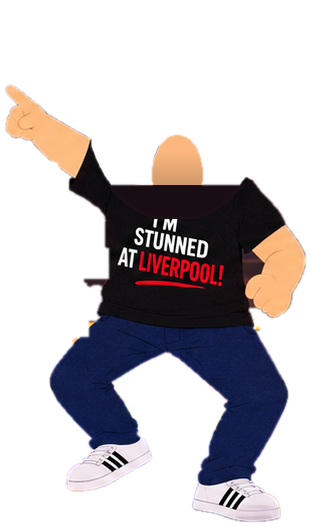
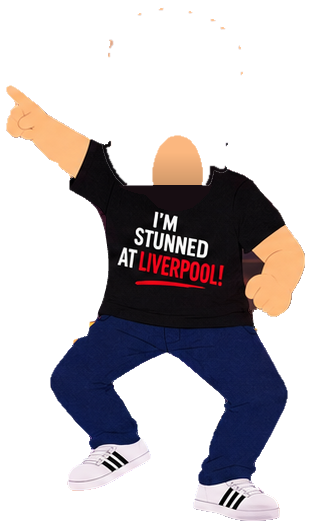
Remaster the character cut-outs and arm rig
Rig (render.py)
- Skinned arms: each arm bends smoothly from where it leaves the body to
  the forearm instead of rotating as a rigid cut-out, so there is no cut
  line across sleeves and no detached joints
- Arm pieces take only the arm itself: skin/hand/glass for arms in front
  of the body (pivoting at the elbow or sleeve hem), the whole sleeve for
  Gary's raised arms (rig.json 'mode')
- Body behind a moved arm is inpainted from shirt pixels only (no flat
  patch, no pale smear); fill never recreates a raised arm or fist shadow
- Outline/rim recomputed from the outer body+head silhouette every frame
  (no ghost outlines, no rim lines inside the body or round the neck)
- Sprites padded so swinging hands are never clipped; swing capped
- tools/rig_qa.py: each drawing with arms down / neutral / raised

Cut-outs (build_assets.py)
- Smooth the staircase mask edges along the outline (trousers, torsos),
  keeping hands/faces/shoes/text exact; drop hairline slivers
- Auto-remove maroon/studio-blue chair scraps on the outer edge; fill
  hairline cracks between head and body
- Head piece keeps head/hair/beard only: dark shirt under the head oval
  goes back to the body (clothing no longer swings with the head);
  Carra's and Keane's chin/beard tails take beard only, never shirt

Claude-Session: https://claude.ai/code/session_01Dp2R7D8dpgJrJKu2Z7FzDb

diff --git a/render/render.py b/render/render.py
@@ -39,6 +39,11 @@ def rgba(path):
     im[..., :3] *= im[..., 3:4] / 255.0
     return im
 SPR = {n: dict(body=rgba(f'{A}/{n}_body.png'), head=rgba(f'{A}/{n}_head.png'), **meta[n]) for n in meta}
+SPR_PAD = 110  # room around each drawing so a swinging arm is never clipped at the sprite edge
+for sp_ in SPR.values():
+    for k_ in ('body', 'head'): sp_[k_] = np.pad(sp_[k_], ((SPR_PAD, SPR_PAD), (SPR_PAD, SPR_PAD), (0, 0)))
+    sp_['x0'] -= SPR_PAD; sp_['y0'] -= SPR_PAD
+    for k_ in ('neck', 'foot', 'headc'): sp_[k_] = [sp_[k_][0] + SPR_PAD, sp_[k_][1] + SPR_PAD]
 HAND = {'carra1': (895, 752), 'carra2': (690, 300), 'nev1': (1030, 600), 'nev2': (1455, 380), 'keane1': (1405, 630), 'keane2': (790, 525), 'carra5': (720, 645), 'keane5': (722, 522), 'nev5': (1050, 570), 'carra4': (385, 473), 'keane4': (923, 517), 'nev4': (1224, 456)}
 for n, s in SPR.items():
     hx, hy = HAND[n]; s['hand'] = (hx - s['x0'], hy - s['y0'])
@@ -60,55 +65,128 @@ def _ol_rim(img):
     edge = cv2.GaussianBlur(edge, (0, 0), 1.0) * (a / 255)
     r = np.zeros_like(img); r[..., 0] = r[..., 1] = r[..., 2] = edge; r[..., 3] = edge
     return o, r
+def _ol_rim_body(img, head_a):
+    """Outline + rim light for a body layer, from the outer silhouette of body+head (closed), so the neck opening
+    and internal seams never get a rim line."""
+    a = np.maximum(img[..., 3], head_a)
+    a = cv2.morphologyEx((a > 110).astype(np.uint8), cv2.MORPH_CLOSE, cv2.getStructuringElement(cv2.MORPH_ELLIPSE, (7, 7))).astype(np.float32) * 255
+    a = np.minimum(a, cv2.GaussianBlur(np.maximum(img[..., 3], head_a), (0, 0), 0.7) + 60)
+    tmp = np.zeros_like(img); tmp[..., 3] = a
+    ol, rim = _ol_rim(tmp)
+    return ol, rim * (img[..., 3:4] / 255)
 for n_, sp_ in SPR.items():
-    sp_['body_ol'], sp_['body_rim'] = _ol_rim(sp_['body']); sp_['head_ol'], sp_['head_rim'] = _ol_rim(sp_['head'])
+    sp_['head_a'] = sp_['head'][..., 3].copy()
+    sp_['body_ol'], sp_['body_rim'] = _ol_rim_body(sp_['body'], sp_['head_a']); sp_['head_ol'], sp_['head_rim'] = _ol_rim(sp_['head'])
 # ---- arm rig: cut each drawing's arms out so they can rotate at the shoulder (masks/rig.json) -------------
 RIG = json.load(open(MASKS + '/rig.json'))
+def _smooth01(x): x = np.clip(x, 0, 1); return x * x * (3 - 2 * x)
 def _build_rig(sp, arms):
+    """Skinned arms: each arm bends smoothly from the shoulder (weight 0) to the forearm (weight 1), so the
+    arm never detaches or shows a cut line. Where the arm swings away, the body behind it is inpainted from
+    the surrounding shirt (never a flat patch)."""
     body = sp['body']; H_, W_ = body.shape[:2]; a = body[..., 3]
+    yy, xx = np.mgrid[0:H_, 0:W_].astype(np.float32)
     pm_all = np.zeros((H_, W_), np.uint8)
     for arm in arms: cv2.fillPoly(pm_all, [np.array(arm['poly'], np.int32)], 1)
     torso = ((a > 128) & (pm_all == 0)).astype(np.uint8)
     n_, lab, st, _ = cv2.connectedComponentsWithStats(torso, 8)
     if n_ > 1: torso = (lab == 1 + np.argmax(st[1:, 4])).astype(np.uint8)
-    # torso outline with the holes the arms leave closed (follows the real outline, unlike a convex hull)
     hull = cv2.morphologyEx(torso, cv2.MORPH_CLOSE, cv2.getStructuringElement(cv2.MORPH_ELLIPSE, (61, 61)))
     cs_, _ = cv2.findContours(hull, cv2.RETR_EXTERNAL, cv2.CHAIN_APPROX_NONE); hull = np.zeros_like(torso)
     cv2.drawContours(hull, cs_, -1, 1, -1)
-    hull &= cv2.erode((a > 128).astype(np.uint8), np.ones((3, 3), np.uint8))
-    nx, ny = sp['neck']; smp = body[ny + 40:ny + 140, max(0, nx - 50):nx + 50].reshape(-1, 4)
-    smp = smp[smp[:, 3] > 250]
-    shirt = np.median(smp[:, :3], 0) if len(smp) else np.array((28, 26, 30), np.float32)
-    rig = body.copy(); out = []
+    hull &= (a > 128).astype(np.uint8)
+    rgb = np.clip(body[..., :3] * 255 / np.maximum(a[..., None], 1), 0, 255).astype(np.uint8)
+    hsv = cv2.cvtColor(rgb, cv2.COLOR_BGR2HSV)
+    skinish = ((hsv[..., 1] > 55) & (hsv[..., 2] > 110) & (hsv[..., 0] < 35)).astype(np.uint8)  # skin, hands, beer
+    offtorso = ((a > 8) & (hull == 0)).astype(np.uint8)
+    out = []; rem_all = np.zeros((H_, W_), np.float32); fill_all = np.zeros((H_, W_), np.float32)
+    hull_dil = cv2.dilate(hull, cv2.getStructuringElement(cv2.MORPH_ELLIPSE, (21, 21))) & (a > 128).astype(np.uint8)
     for arm in arms:
-        pm = np.zeros((H_, W_), np.uint8); cv2.fillPoly(pm, [np.array(arm['poly'], np.int32)], 255)
-        pmf = cv2.GaussianBlur(pm.astype(np.float32) / 255, (0, 0), 0.8)
-        img = body * pmf[..., None]
-        fill = np.clip(pmf * hull, 0, 1)
-        rig = rig * (1 - pmf[..., None])
-        rig[..., :3] += shirt * fill[..., None]; rig[..., 3] += 255 * fill
-        # outline/rim: only the drawing's real outer edge around the arm (never the internal cut line)
-        pmd = cv2.GaussianBlur(cv2.dilate(pm, np.ones((9, 9), np.uint8)).astype(np.float32) / 255, (0, 0), 1.0)[..., None]
-        ol_, rim_ = sp['body_ol'] * pmd, sp['body_rim'] * pmf[..., None]
-        out.append(dict(img=img, ol=ol_, rim=rim_, pivot=tuple(arm['pivot']), side=arm['side'], rng=arm.get('range', 1.0), poly=np.array(arm['poly'], np.float32)))
-    for arm in out:  # shoulder cap so a rotated arm never opens a gap at the joint
-        px_, py_ = map(int, arm['pivot']); cap = np.zeros((H_, W_), np.float32)
-        cv2.circle(cap, (px_, py_), 20, 1.0, -1, cv2.LINE_AA); cap *= (a > 0)
-        rig = rig * (1 - cap[..., None]); rig[..., :3] += shirt * cap[..., None]; rig[..., 3] += 255 * cap
-    sp['body_rig'] = rig; sp['body_rig_ol'], sp['body_rig_rim'] = _ol_rim(rig); sp['arms'] = out
+        poly = np.array(arm['poly'], np.float32) + SPR_PAD; pv = np.array(arm['pivot'], np.float32) + SPR_PAD
+        pm = np.zeros((H_, W_), np.uint8); cv2.fillPoly(pm, [poly.astype(np.int32)], 1)
+        pm_big = cv2.dilate(pm, cv2.getStructuringElement(cv2.MORPH_ELLIPSE, (15, 15)))
+        # the arm is: its skin/hand (+ the drawn outline around it) inside the traced polygon, plus everything
+        # of the drawing that lies off the torso (sleeves in the air, edge pixels) -- never a slice of shirt
+        if arm.get('mode', 'skin') == 'skin':
+            core = pm & skinish
+            br = (pm & (hsv[..., 2] > 150).astype(np.uint8))  # glass rims / highlights touching the hand
+            nb, lbb, _, _ = cv2.connectedComponentsWithStats(br, 8)
+            touch = np.unique(lbb[(cv2.dilate(core, np.ones((7, 7), np.uint8)) > 0) & (lbb > 0)])
+            core = core | np.isin(lbb, touch).astype(np.uint8)
+        else: core = pm & (a > 128).astype(np.uint8)
+        nn_, lb_, st_, _ = cv2.connectedComponentsWithStats(core, 8)
+        if nn_ > 1: core = np.isin(lb_, 1 + np.where(st_[1:, 4] >= 60)[0]).astype(np.uint8)
+        am = cv2.dilate(core, cv2.getStructuringElement(cv2.MORPH_ELLIPSE, (7, 7))) & pm_big & (a > 8)
+        if arm.get('mode', 'skin') == 'full': am |= cv2.dilate(pm, cv2.getStructuringElement(cv2.MORPH_ELLIPSE, (7, 7))) & offtorso
+        d = np.hypot(xx - pv[0], yy - pv[1])
+        dm = d[am > 0]
+        if len(dm) < 50: continue
+        if arm.get('mode', 'skin') == 'skin':
+            # bare arms swing from where the arm leaves the sleeve/body (elbow or hem), not the shoulder
+            dmin = float(np.percentile(dm, 1)); near = (am > 0) & (d < dmin + 14)
+            pv = np.array([xx[near].mean(), yy[near].mean()], np.float32)
+            d = np.hypot(xx - pv[0], yy - pv[1]); dm = d[am > 0]
+        d0, L = float(np.percentile(dm, 2)), float(np.percentile(dm, 99))
+        w = _smooth01((d - d0 - arm.get('bend0', 0.05) * (L - d0)) / (arm.get('bend1', 0.45) * (L - d0))).astype(np.float32)
+        amf = cv2.GaussianBlur(am.astype(np.float32), (0, 0), 0.7)
+        img = body * amf[..., None]
+        amr = cv2.GaussianBlur(cv2.dilate(am, np.ones((5, 5), np.uint8)).astype(np.float32), (0, 0), 0.7)  # remove the arm's edge fully (no ghost outline)
+        rem_all = np.maximum(rem_all, amr * _smooth01(w / 0.1))
+        if arm.get('mode', 'skin') == 'skin': fz = hull_dil  # a bare elbow's surroundings are body too
+        else: fz = hull & (d < d0 + 0.3 * (L - d0)).astype(np.uint8)  # raised arms: only the shoulder is body, the rest is air
+        fill_all = np.maximum(fill_all, amr * _smooth01(w / 0.1) * cv2.GaussianBlur(fz.astype(np.float32), (0, 0), 0.8))
+        out.append(dict(img=img, w=w, pivot=(float(pv[0]), float(pv[1])), side=arm['side'], rng=arm.get('range', 1.0), poly=poly, L=L))
+    # inpaint the body behind the moving arm parts from the surrounding torso
+    notshirt = cv2.dilate(((skinish | (hsv[..., 2] > 150)) & cv2.dilate(pm_all, np.ones((31, 31), np.uint8))).astype(np.uint8), np.ones((5, 5), np.uint8))
+    holem = ((rem_all > 0.02) | (a < 128) | (notshirt > 0)).astype(np.uint8) * 255  # fill from shirt pixels only
+    ys_, xs_ = np.where(rem_all > 0.02)
+    fillc = rgb.astype(np.float32)
+    if len(ys_):
+        y0, y1, x0, x1 = max(0, ys_.min() - 40), min(H_, ys_.max() + 41), max(0, xs_.min() - 40), min(W_, xs_.max() + 41)
+        fillc[y0:y1, x0:x1] = cv2.inpaint(rgb[y0:y1, x0:x1], holem[y0:y1, x0:x1], 9, cv2.INPAINT_TELEA).astype(np.float32)
+    fillc = cv2.GaussianBlur(fillc, (0, 0), 1.2) * 0.93  # the hidden torso sits slightly in shadow
+    rig = body * (1 - rem_all[..., None])
+    fa = fill_all
+    rig[..., :3] += fillc * fa[..., None]; rig[..., 3] += 255 * fa
+    sp['body_rig'] = rig; sp['arms'] = out
 for n_, sp_ in SPR.items():
     if n_ in RIG: _build_rig(sp_, RIG[n_])
+ARM_MAX = 0.34  # rad: arms swing at most ~20 degrees either way, so the drawings never distort
 def arm_rot(arm, p):
     """Rotation (rad, clockwise on screen) of an arm for pose p: positive 'up' raises either arm."""
-    return arm['rng'] * (p.get('aL', 0.0) if arm['side'] == 'L' else -p.get('aR', 0.0))
+    a_ = p.get('aL', 0.0) if arm['side'] == 'L' else -p.get('aR', 0.0)
+    return arm['rng'] * clamp(a_, -ARM_MAX, ARM_MAX)
 def rot_about(pt, piv, ang):
     c_, s_ = math.cos(ang), math.sin(ang); dx, dy = pt[0] - piv[0], pt[1] - piv[1]
     return (piv[0] + c_ * dx - s_ * dy, piv[1] + s_ * dx + c_ * dy)
 def arm_point(spr, pt, p):
-    """Sprite-local point after the arm it sits on is rotated (for the mic / champagne hand)."""
+    """Sprite-local point after the arm it sits on bends (for the mic / champagne hand)."""
     for arm in spr.get('arms', []):
-        if cv2.pointPolygonTest(arm['poly'], (float(pt[0]), float(pt[1])), False) >= 0: return rot_about(pt, arm['pivot'], arm_rot(arm, p))
+        if cv2.pointPolygonTest(arm['poly'], (float(pt[0]), float(pt[1])), False) >= 0:
+            wy, wx = int(clamp(pt[1], 0, arm['w'].shape[0] - 1)), int(clamp(pt[0], 0, arm['w'].shape[1] - 1))
+            return rot_about(pt, arm['pivot'], arm_rot(arm, p) * float(arm['w'][wy, wx]))
     return pt
+def compose_body(spr, p):
+    """Body + skinned arms for pose p, in sprite space, with outline and rim for the whole silhouette."""
+    if 'arms' not in spr: return spr['body'], spr['body_ol'], spr['body_rim']
+    angs = [arm_rot(arm, p) for arm in spr['arms']]
+    if all(abs(a_) < 1e-3 for a_ in angs): return spr['body'], spr['body_ol'], spr['body_rim']
+    out = spr['body_rig'].copy(); H_, W_ = out.shape[:2]
+    for arm, ang in zip(spr['arms'], angs):
+        pvx, pvy = arm['pivot']; poly = arm['poly']; m = int(arm['L'] * abs(ang)) + 6
+        x0, x1 = max(0, int(poly[:, 0].min()) - m), min(W_, int(poly[:, 0].max()) + m + 1)
+        y0, y1 = max(0, int(poly[:, 1].min()) - m), min(H_, int(poly[:, 1].max()) + m + 1)
+        gy, gx = np.mgrid[y0:y1, x0:x1].astype(np.float32); dx, dy = gx - pvx, gy - pvy
+        sx, sy = gx.copy(), gy.copy()
+        for _ in range(5):  # invert the skinning warp: find source s with s bent by ang*w(s) == p
+            th = -ang * cv2.remap(arm['w'], sx, sy, cv2.INTER_LINEAR, borderMode=cv2.BORDER_REPLICATE)
+            c_, s_ = np.cos(th), np.sin(th)
+            sx = pvx + c_ * dx - s_ * dy; sy = pvy + s_ * dx + c_ * dy
+        wa = cv2.remap(arm['img'], sx, sy, cv2.INTER_LINEAR, borderMode=cv2.BORDER_CONSTANT, borderValue=(0, 0, 0, 0))
+        reg = out[y0:y1, x0:x1]; al = wa[..., 3:4] / 255
+        out[y0:y1, x0:x1] = reg * (1 - al) + wa
+    ol_, rim_ = _ol_rim_body(out, spr['head_a'])
+    return out, ol_, rim_
 _yy, _xx = np.mgrid[0:OH, 0:OW].astype(np.float32)
 VIGNETTE = (1 - 0.3 * (((_xx - OW / 2) / (OW / 2)) ** 2 + ((_yy - OH / 2) / (OH / 2)) ** 2) * 0.55)[..., None]
 HZ = 760
@@ -175,7 +253,7 @@ def scene_for(b):
     return 'studio'
 for n_, sp_ in SPR.items():
     sp_['name'] = n_
-    if n_ in MOUTH: sp_['mouth'] = MOUTH[n_]
+    if n_ in MOUTH: sp_['mouth'] = dict(MOUTH[n_], mx=MOUTH[n_]['mx'] + SPR_PAD, my=MOUTH[n_]['my'] + SPR_PAD)
 def jaw_open(img, mx, my, rx, open_px, mw=None, span=None, paint=True):
     """Stretch the lower face down by open_px (no tearing) and paint a mouth of half-width mw.
     A negative open_px squeezes the band [my, my+span] shut instead (paint=False)."""
@@ -1070,15 +1148,8 @@ def _render(t, force=None, shot=None, scene_=None):
         Mbody = aff(s_ * p['sx'], s_ * p['sy'], p['roll'], spr['foot'][0], spr['foot'][1], ox, oy)
         if refl is not None: Mbody = np.array([[1, 0, 0], [0, -1, 2 * refl]], np.float64) @ np.vstack([Mbody, [0, 0, 1]])
         rimc = np.array(PAL[int(b // 2) % 5] if scene != 'pitch' else (235, 245, 255), np.float32) / 255 * (0.18 + 0.12 * dip)
-        rigged = 'arms' in spr
-        bimg, bol, brim = (spr['body_rig'], spr['body_rig_ol'], spr['body_rig_rim']) if rigged else (spr['body'], spr['body_ol'], spr['body_rim'])
+        bimg, bol, brim = compose_body(spr, p)
         parts = [(bimg, bol, brim, Mbody)]
-        if rigged:
-            Mb3 = np.vstack([Mbody, [0, 0, 1]])
-            for arm in spr['arms']:
-                pv = arm['pivot']; ang = arm_rot(arm, p); c_, s2_ = math.cos(ang), math.sin(ang)
-                Ma = Mb3 @ np.array([[c_, -s2_, pv[0] - c_ * pv[0] + s2_ * pv[1]], [s2_, c_, pv[1] - s2_ * pv[0] - c_ * pv[1]], [0, 0, 1]], np.float64)
-                parts.append((arm['img'], arm['ol'], arm['rim'], Ma[:2]))
         if refl is None:
             for _, ol_, _, M_ in parts: draw_sprite(dst, ol_ * fd, M_, 1.0)
         for im_, _, _, M_ in parts: draw_sprite(dst, im_ * fd if fd < 1 else im_, M_, gain)

diff --git a/tools/build_assets.py b/tools/build_assets.py
@@ -2,6 +2,35 @@ import os as _os
 ROOT = _os.path.dirname(_os.path.dirname(_os.path.abspath(__file__)))
 ASSETS = _os.path.join(ROOT, 'assets'); MASKS = _os.path.join(ROOT, 'masks'); DATA = _os.path.join(ROOT, 'data'); SOURCE = _os.path.join(ROOT, 'source'); OUTDIR = _os.path.join(ROOT, 'out'); TOOLS = _os.path.join(ROOT, 'tools')
 import cv2, numpy as np, json, sys
+from scipy.ndimage import gaussian_filter1d
+def smooth_silhouette(bgr, a, protect, sigma=15.0):
+    """Smooth the staircase edges the source masks leave (trousers, torso sides) by smoothing the outline
+    along its length; `protect` (hands, faces, shoes, text) keeps its exact edge. Returns (bgr, alpha 0..1)."""
+    M = (a > 0.5).astype(np.uint8); H_, W_ = M.shape; SS = 4
+    cs, hier = cv2.findContours(M, cv2.RETR_CCOMP, cv2.CHAIN_APPROX_NONE)
+    pf = cv2.GaussianBlur(protect.astype(np.float32), (0, 0), 4)
+    new = []
+    for c in cs:
+        pts = c[:, 0, :].astype(np.float64)
+        if len(pts) > 40:
+            w = 1 - np.clip(pf[pts[:, 1].astype(int), pts[:, 0].astype(int)] * 1.5, 0, 1)
+            w = gaussian_filter1d(w, 6, mode='wrap')
+            sm = gaussian_filter1d(pts, sigma, axis=0, mode='wrap')
+            pts = pts + (sm - pts) * w[:, None]
+        new.append(np.round((pts + 0.5) * SS - 0.5).astype(np.int32)[:, None, :])
+    big = np.zeros((H_ * SS, W_ * SS), np.uint8)
+    cv2.drawContours(big, new, -1, 255, -1, cv2.LINE_8, hier)
+    na = cv2.resize(big, (W_, H_), interpolation=cv2.INTER_AREA).astype(np.float32) / 255
+    na = np.minimum(na, cv2.GaussianBlur(np.maximum(a, (na > 0.5).astype(np.float32)), (0, 0), 0.6) + 0.0)
+    # drop hairline slivers (thin strips left between cleanup polygons, 1-3 px outline scraps)
+    solid = cv2.morphologyEx((na > 0.3).astype(np.uint8), cv2.MORPH_OPEN, cv2.getStructuringElement(cv2.MORPH_ELLIPSE, (5, 5)))
+    na = na * cv2.GaussianBlur(cv2.dilate(solid, np.ones((3, 3), np.uint8)).astype(np.float32), (0, 0), 0.6)
+    # colour for pixels the smoothing adds: nearest opaque pixel
+    _, lab = cv2.distanceTransformWithLabels((a < 0.5).astype(np.uint8), cv2.DIST_L2, 5, labelType=cv2.DIST_LABEL_PIXEL)
+    zy, zx = np.where(a >= 0.5); lut = np.zeros((lab.max() + 1, 3), np.uint8)
+    lut[lab[zy, zx]] = bgr[zy, zx]
+    out = bgr.copy(); add = (a < 0.5) & (na > 0.01); out[add] = lut[lab[add]]
+    return out, na
 sys.path.insert(0,TOOLS); from heads import HEADS
 CLEAN=json.load(open(f'{MASKS}/clean.json'))  # hand-cleanup polygons in sprite-local px
 RIG=json.load(open(f'{MASKS}/rig.json'))      # arm polygons also protect hands from being captured by the head split
@@ -43,8 +72,12 @@ for n,(iid,cx,cy,rx,ry,nx,ny) in HEADS.items():
     # Carra's old split ended too high: the bottom of his beard/chin stayed on the body layer and
     # appeared to be sliced off whenever his head rotated. Give all four Carra drawings a deeper
     # head tail; the later neck/collar fill still hides the seam underneath.
-    head_tail=int(0.16*ry) if n.startswith('carra') else 4
+    head_tail=int(0.16*ry) if n.startswith('carra') else int(0.12*ry) if n.startswith('keane') else 4  # Keane's beard too
     hm[(ny+head_tail-y0):,:]=0
+    if head_tail>4:  # the deeper tail may take beard/chin only, never the (dark) shirt under it
+        tail=np.zeros((H,W),bool); tail[max(0,ny+4-y0):ny+head_tail-y0,:]=True
+        vtail=cv2.cvtColor(crop,cv2.COLOR_BGR2HSV)[...,2]<75
+        hm[tail&vtail]=0
     EXCL={'nev1':('x>',1218),'nev2':('x<',1138),'nev5':('x>',1188),'nev4':('x>',1150)}
     if n in EXCL:
         op,v=EXCL[n]; xx=np.arange(W)[None,:]+x0
@@ -58,6 +91,14 @@ for n,(iid,cx,cy,rx,ry,nx,ny) in HEADS.items():
             am=np.zeros((H,W),np.uint8)
             cv2.fillPoly(am,[np.array(arm['poly'],np.int32)],255)
             hm[am>0]=0
+    # the head oval also covers shoulders/shirt below the face: give that dark clothing back to the body, so
+    # it never swings with the head (dark features enclosed by the face, e.g. a goatee, stay)
+    vv_h=cv2.cvtColor(crop,cv2.COLOR_BGR2HSV)[...,2]
+    darklow=((vv_h<80)&(hm>0)).astype(np.uint8); darklow[:int(cy-y0+0.25*ry),:]=0
+    ring=(hm>0)&(cv2.erode(hm,np.ones((5,5),np.uint8))==0); ring[:int(cy-y0+0.25*ry),:]=False
+    ndl,ldl,_,_=cv2.connectedComponentsWithStats(darklow,8)
+    for i_ in np.unique(ldl[ring & (darklow>0)]):
+        if i_: hm[cv2.dilate((ldl==i_).astype(np.uint8),np.ones((3,3),np.uint8))>0]=0
     # drop stray bits of the head mask not connected to the main blob
     nn,lab,st,_=cv2.connectedComponentsWithStats(hm,8)
     if nn>1: big=1+np.argmax(st[1:,cv2.CC_STAT_AREA]); hm=np.where(lab==big,255,0).astype(np.uint8)
@@ -107,6 +148,38 @@ for n,(iid,cx,cy,rx,ry,nx,ny) in HEADS.items():
             op,v=EXCL[n]; xx=np.arange(W)[None,:]+x0
             zone[np.broadcast_to((xx>v) if op=='x>' else (xx<v),zone.shape)]=0
         body_a[zone>0]=0
+    # chair / studio scraps: maroon or bright-blue patches on the outer edge that don't touch skin
+    hsv_c=cv2.cvtColor(bcol,cv2.COLOR_BGR2HSV).astype(np.int32); hh_,ss_,vv_=hsv_c[...,0],hsv_c[...,1],hsv_c[...,2]
+    skin_c=((hh_>=5)&(hh_<=22)&(ss_>70)&(vv_>150)).astype(np.uint8)
+    near_skin=cv2.dilate(skin_c,cv2.getStructuringElement(cv2.MORPH_ELLIPSE,(15,15)))>0
+    scrap=((((hh_<14)|(hh_>155))&(ss_>70)&(vv_>30)&(vv_<120)) | ((hh_>=100)&(hh_<=165)&(ss_>90)&(vv_>115)&(vv_<235)&(n[:4]!='carr')))&(body_a>0.2)&~near_skin
+    near_text=cv2.dilate((vv_>190).astype(np.uint8),cv2.getStructuringElement(cv2.MORPH_ELLIPSE,(21,21)))>0
+    scrap&=~near_text
+    scrap[:int(ny-y0+0.35*ry),:]=False            # collar/neck: shading, not scraps
+    scrap[int(ys.max()-y0-0.14*(ys.max()-ny)):,:]=False  # shoes
+    outside=cv2.dilate((body_a<0.2).astype(np.uint8),np.ones((7,7),np.uint8))>0
+    nsc,lsc,ssc,_=cv2.connectedComponentsWithStats(scrap.astype(np.uint8),8)
+    kill=np.zeros((H,W),np.uint8)
+    for i_ in range(1,nsc):
+        comp=lsc==i_
+        if ssc[i_,4]>=35 and (comp&outside).any(): kill[comp]=1
+    kill=cv2.dilate(kill,cv2.getStructuringElement(cv2.MORPH_ELLIPSE,(5,5)))
+    body_a=body_a*(1-kill)
+    # smooth the blocky mask edges, keeping hands/face/shoes/text/glass edges exact
+    hsv_b=cv2.cvtColor(bcol,cv2.COLOR_BGR2HSV)
+    prot=((hsv_b[...,1]>60)&(hsv_b[...,2]>120)&(hsv_b[...,0]<35)) | (hsv_b[...,2]>185)
+    prot=cv2.dilate(prot.astype(np.uint8),cv2.getStructuringElement(cv2.MORPH_ELLIPSE,(7,7)))
+    prot[:max(0,int(ny-y0+0.1*ry)),:]=1  # neck/collar area stays as built
+    bcol,body_a=smooth_silhouette(bcol,np.clip(body_a,0,1),prot)
+    # hairline cracks: thin gaps inside the body and between body and head let the background show through
+    ha_=head[...,3].astype(np.float32)/255
+    U=np.maximum(body_a,ha_); Ub=(U>0.5).astype(np.uint8)
+    closed=cv2.morphologyEx(Ub,cv2.MORPH_CLOSE,cv2.getStructuringElement(cv2.MORPH_ELLIPSE,(9,9)))
+    crack=cv2.dilate(((closed>0)&(Ub==0)).astype(np.uint8),np.ones((3,3),np.uint8))&((body_a<0.9).astype(np.uint8))&closed
+    if crack.any():
+        _,lab_=cv2.distanceTransformWithLabels((body_a<0.6).astype(np.uint8),cv2.DIST_L2,5,labelType=cv2.DIST_LABEL_PIXEL)
+        zy_,zx_=np.where(body_a>=0.6); lut_=np.zeros((lab_.max()+1,3),np.uint8); lut_[lab_[zy_,zx_]]=bcol[zy_,zx_]
+        cm=crack>0; bcol[cm]=lut_[lab_[cm]]; body_a=np.maximum(body_a,cv2.GaussianBlur(crack.astype(np.float32),(0,0),0.6)*closed)
     body=np.dstack([bcol,(np.clip(body_a,0,1)*255).astype(np.uint8)])
     cv2.imwrite(f'{OUT}/{n}_body.png',body); cv2.imwrite(f'{OUT}/{n}_head.png',head)
     meta[n]=dict(src=iid,x0=int(x0),y0=int(y0),w=int(W),h=int(H),neck=[int(nx-x0),int(ny-y0)],foot=[int(nx-x0),int(ys.max()-y0)],ry=ry,headc=[int(cx-x0),int(cy-y0)])

diff --git a/tools/rig_qa.py b/tools/rig_qa.py
@@ -1,0 +1,19 @@
+# Rig QA: python3 tools/rig_qa.py <out.jpg> <sprite> [<sprite> ...]
+# Each drawing with both arms at -0.35 / 0 / +0.35 (the renderer's compose_body), head on, grey background.
+import os, sys, cv2, numpy as np
+ROOT = os.path.dirname(os.path.dirname(os.path.abspath(__file__)))
+sys.path.insert(0, os.path.join(ROOT, 'render')); ARGS = sys.argv[1:]
+import render as R
+rows = []
+for n in ARGS[1:]:
+    spr = R.SPR[n]; row = []
+    for up in (-0.35, 0.0, 0.35):
+        img, ol, rim = R.compose_body(spr, {'aL': up, 'aR': up})
+        H, W = img.shape[:2]; fr = np.full((H + 40, W + 40, 3), (150, 150, 158), np.float32)
+        M = R.aff(1, 1, 0, 0, 0, 20, 20)
+        R.draw_sprite(fr, ol, M, 1.0, W + 40, H + 40); R.draw_sprite(fr, img, M, 1.0, W + 40, H + 40)
+        R.draw_sprite(fr, spr['head_ol'], M, 1.0, W + 40, H + 40); R.draw_sprite(fr, spr['head'], M, 1.0, W + 40, H + 40)
+        s = 620 / fr.shape[0]; row.append(cv2.resize(fr.astype(np.uint8), None, fx=s, fy=s, interpolation=cv2.INTER_AREA))
+    rows.append(np.hstack(row))
+w = max(r.shape[1] for r in rows)
+cv2.imwrite(ARGS[0], np.vstack([cv2.copyMakeBorder(r, 0, 4, 0, w - r.shape[1], cv2.BORDER_CONSTANT, value=(255, 255, 255)) for r in rows]))

diff --git a/README.md b/README.md
@@ -28,7 +28,7 @@ QUALITY=4k60 bash render/run.sh           # native 3840x2160 at 60 fps -> out/pa
 Each pundit has four poses: A = `*1` (18306), B = `*2` (18307), C = `*5` (18346 squat), D = `*4` (18349 beer).
 Pose choice lives in `pose()` in `render.py` (`pose=0..3`).
 
-Each drawing is rigged: `masks/rig.json` traces both arms (polygon + shoulder pivot). At load the renderer cuts the arms out of the body, fills the torso behind them with shirt colour, and adds a shoulder cap. Every dance move then swings the arms on the beat (`arms_for`: pumps, alternating points, claps, waves, hands up, robot…). So each of the four drawings has many arm positions, and the mic and champagne follow the hand. Edit a polygon or pivot in `rig.json` and re-render; no asset rebuild is needed.
+Each drawing is rigged: `masks/rig.json` traces both arms (polygon + shoulder pivot + `mode`). The renderer bends each arm with smooth skinning (`compose_body`). The weight is 0 where the arm leaves the body and 1 at the forearm, so the arm never detaches or shows a cut line. `skin` arms (bare arms and hands, the beer hand) move only the arm itself and pivot at the elbow or sleeve hem. `full` arms (Gary's sleeved arms up in the air) move the whole sleeve. The body behind a moved arm is inpainted from the surrounding shirt, and the outline and rim light are recomputed from the outer silhouette every frame. Arm swing is capped at `ARM_MAX`. QA: `python3 tools/rig_qa.py out/qa.jpg carra1 nev2 ...` shows each drawing with arms down, neutral and raised.
 
 ## Song-driven events (in `render.py`)
 - `EDL` (edit decision list): one shot per lyric line, cut on the line and framed on whoever the line is about. Gary is the default, Jamie's lines go on Carra, Roy's lines on Keane, and the comedy breakdown cuts to each speaker. Cuts get a 4-frame crossfade, scene changes a 0.6 s dissolve. The camera frames each pundit from his smoothed position and a fixed head height (`cam_anchor`), so it never chases the dance bounce.
@@ -52,6 +52,7 @@ Each drawing is rigged: `masks/rig.json` traces both arms (polygon + shoulder pi
 - Fixed: Gary's "weird shadow". `build_assets.py` now paints a short skin-toned neck and collar under each head (it used to paint a dark shirt-coloured block), extends the head over the head/body seam, and trims hair slivers. Background scraps are erased via `masks/clean.json`.
 - Lip sync: `data/mouth_curve.npz` is built by `tools/build_mouth_curve.py` from the demucs-isolated vocal stem (real syllables, mouth shuts between them) plus the lyric track for who sings: the mic holder sings verses, everyone sings choruses, and quoted/spoken lines (intro, "here's the thing", "Standards! Hunger! Pride!", the comedy breakdown, outro) go to the right pundit. The others keep their mouths shut. Carra/Gary are drawn mid-shout, so `mouth_shape()` squeezes the drawn mouth shut below `MOUTH_REST` and opens the jaw above it. Mouth anchors are in `assets/mouths.json`.
 - Background managers no longer lip sync (disabled on purpose). The conga line and Sir Alex never did.
+- Cut-out cleanup in `tools/build_assets.py`: silhouette edges are smoothed along the outline (the source masks left staircase edges on trousers and torsos; hands, faces, shoes and text are protected). Maroon/studio-blue scraps on the outer edge are removed automatically, and hairline cracks between head and body are filled. The head piece takes only head, hair and beard, never the shirt, so nothing on the clothing swings with the head.
 - Gary's pointing fist (pose A) had a fingernail that read as a talking mouth; it is painted out via `retouch` in `masks/clean.json`.
 - `nev2` (Gary, pose B) loses the right edge of "UNITED!" on the hoodie. The source mask cuts it off.
 - David Moyes is not in any source artwork, so he is not in the video.
